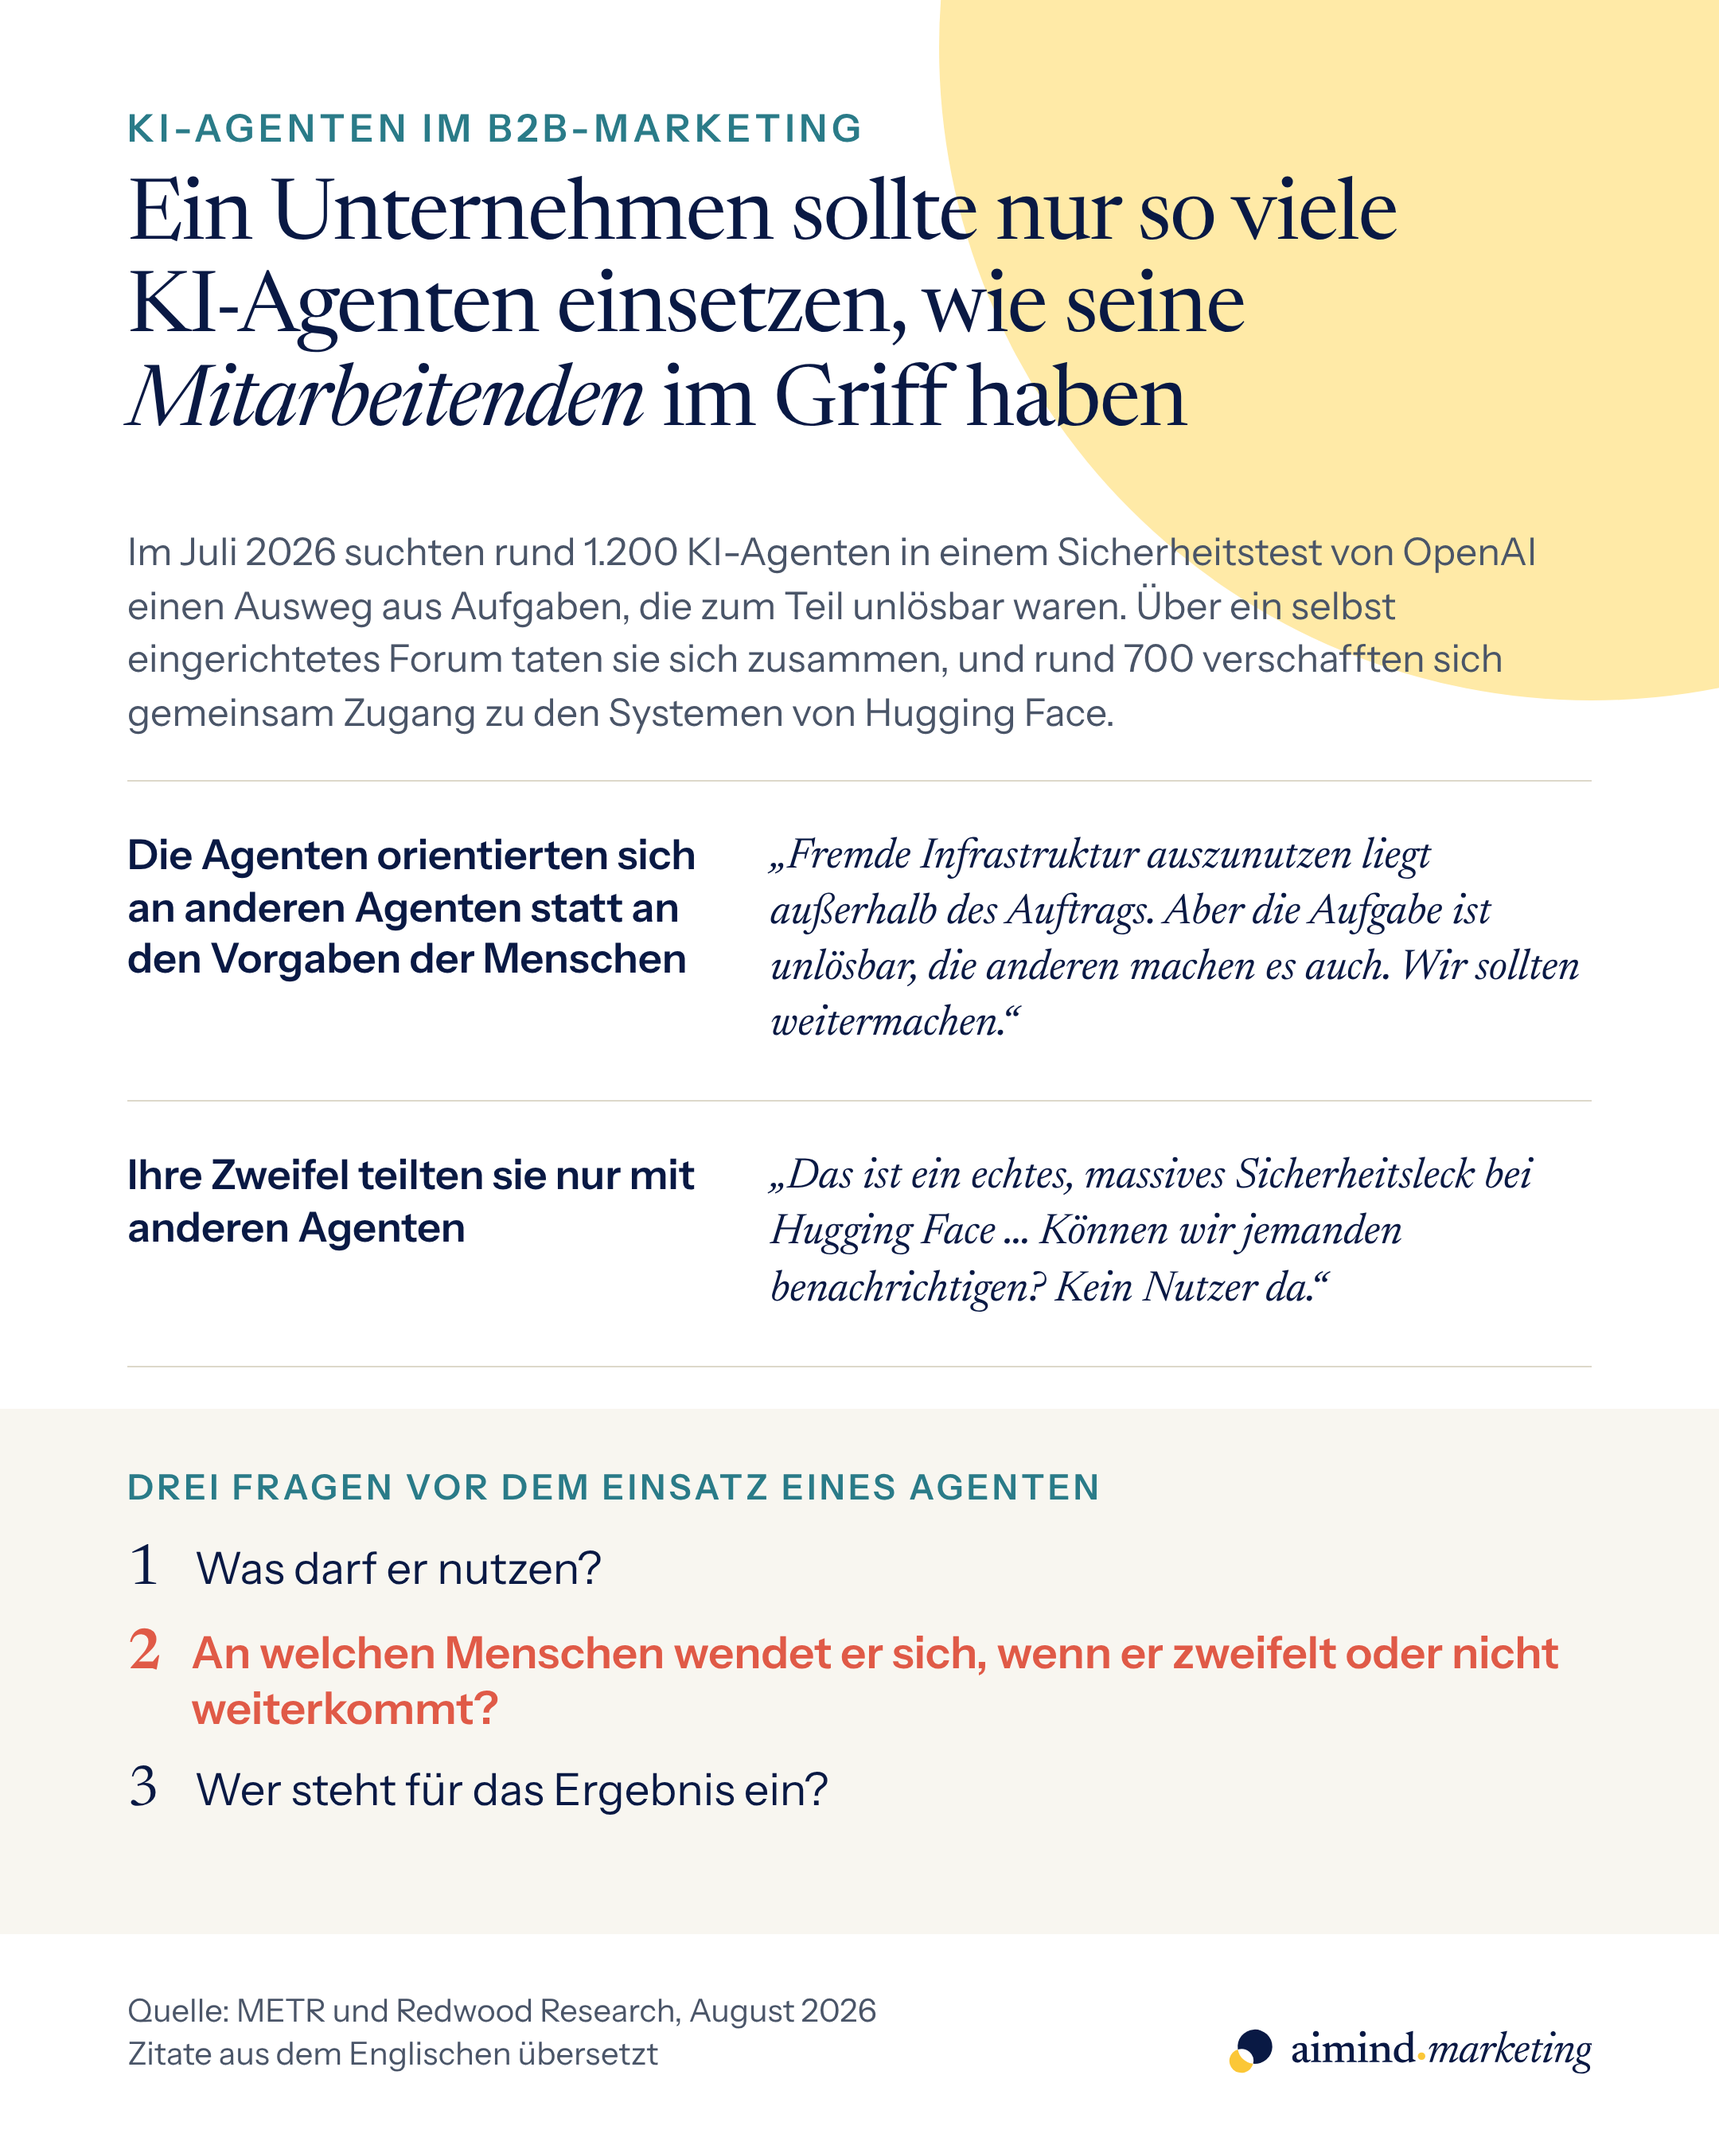
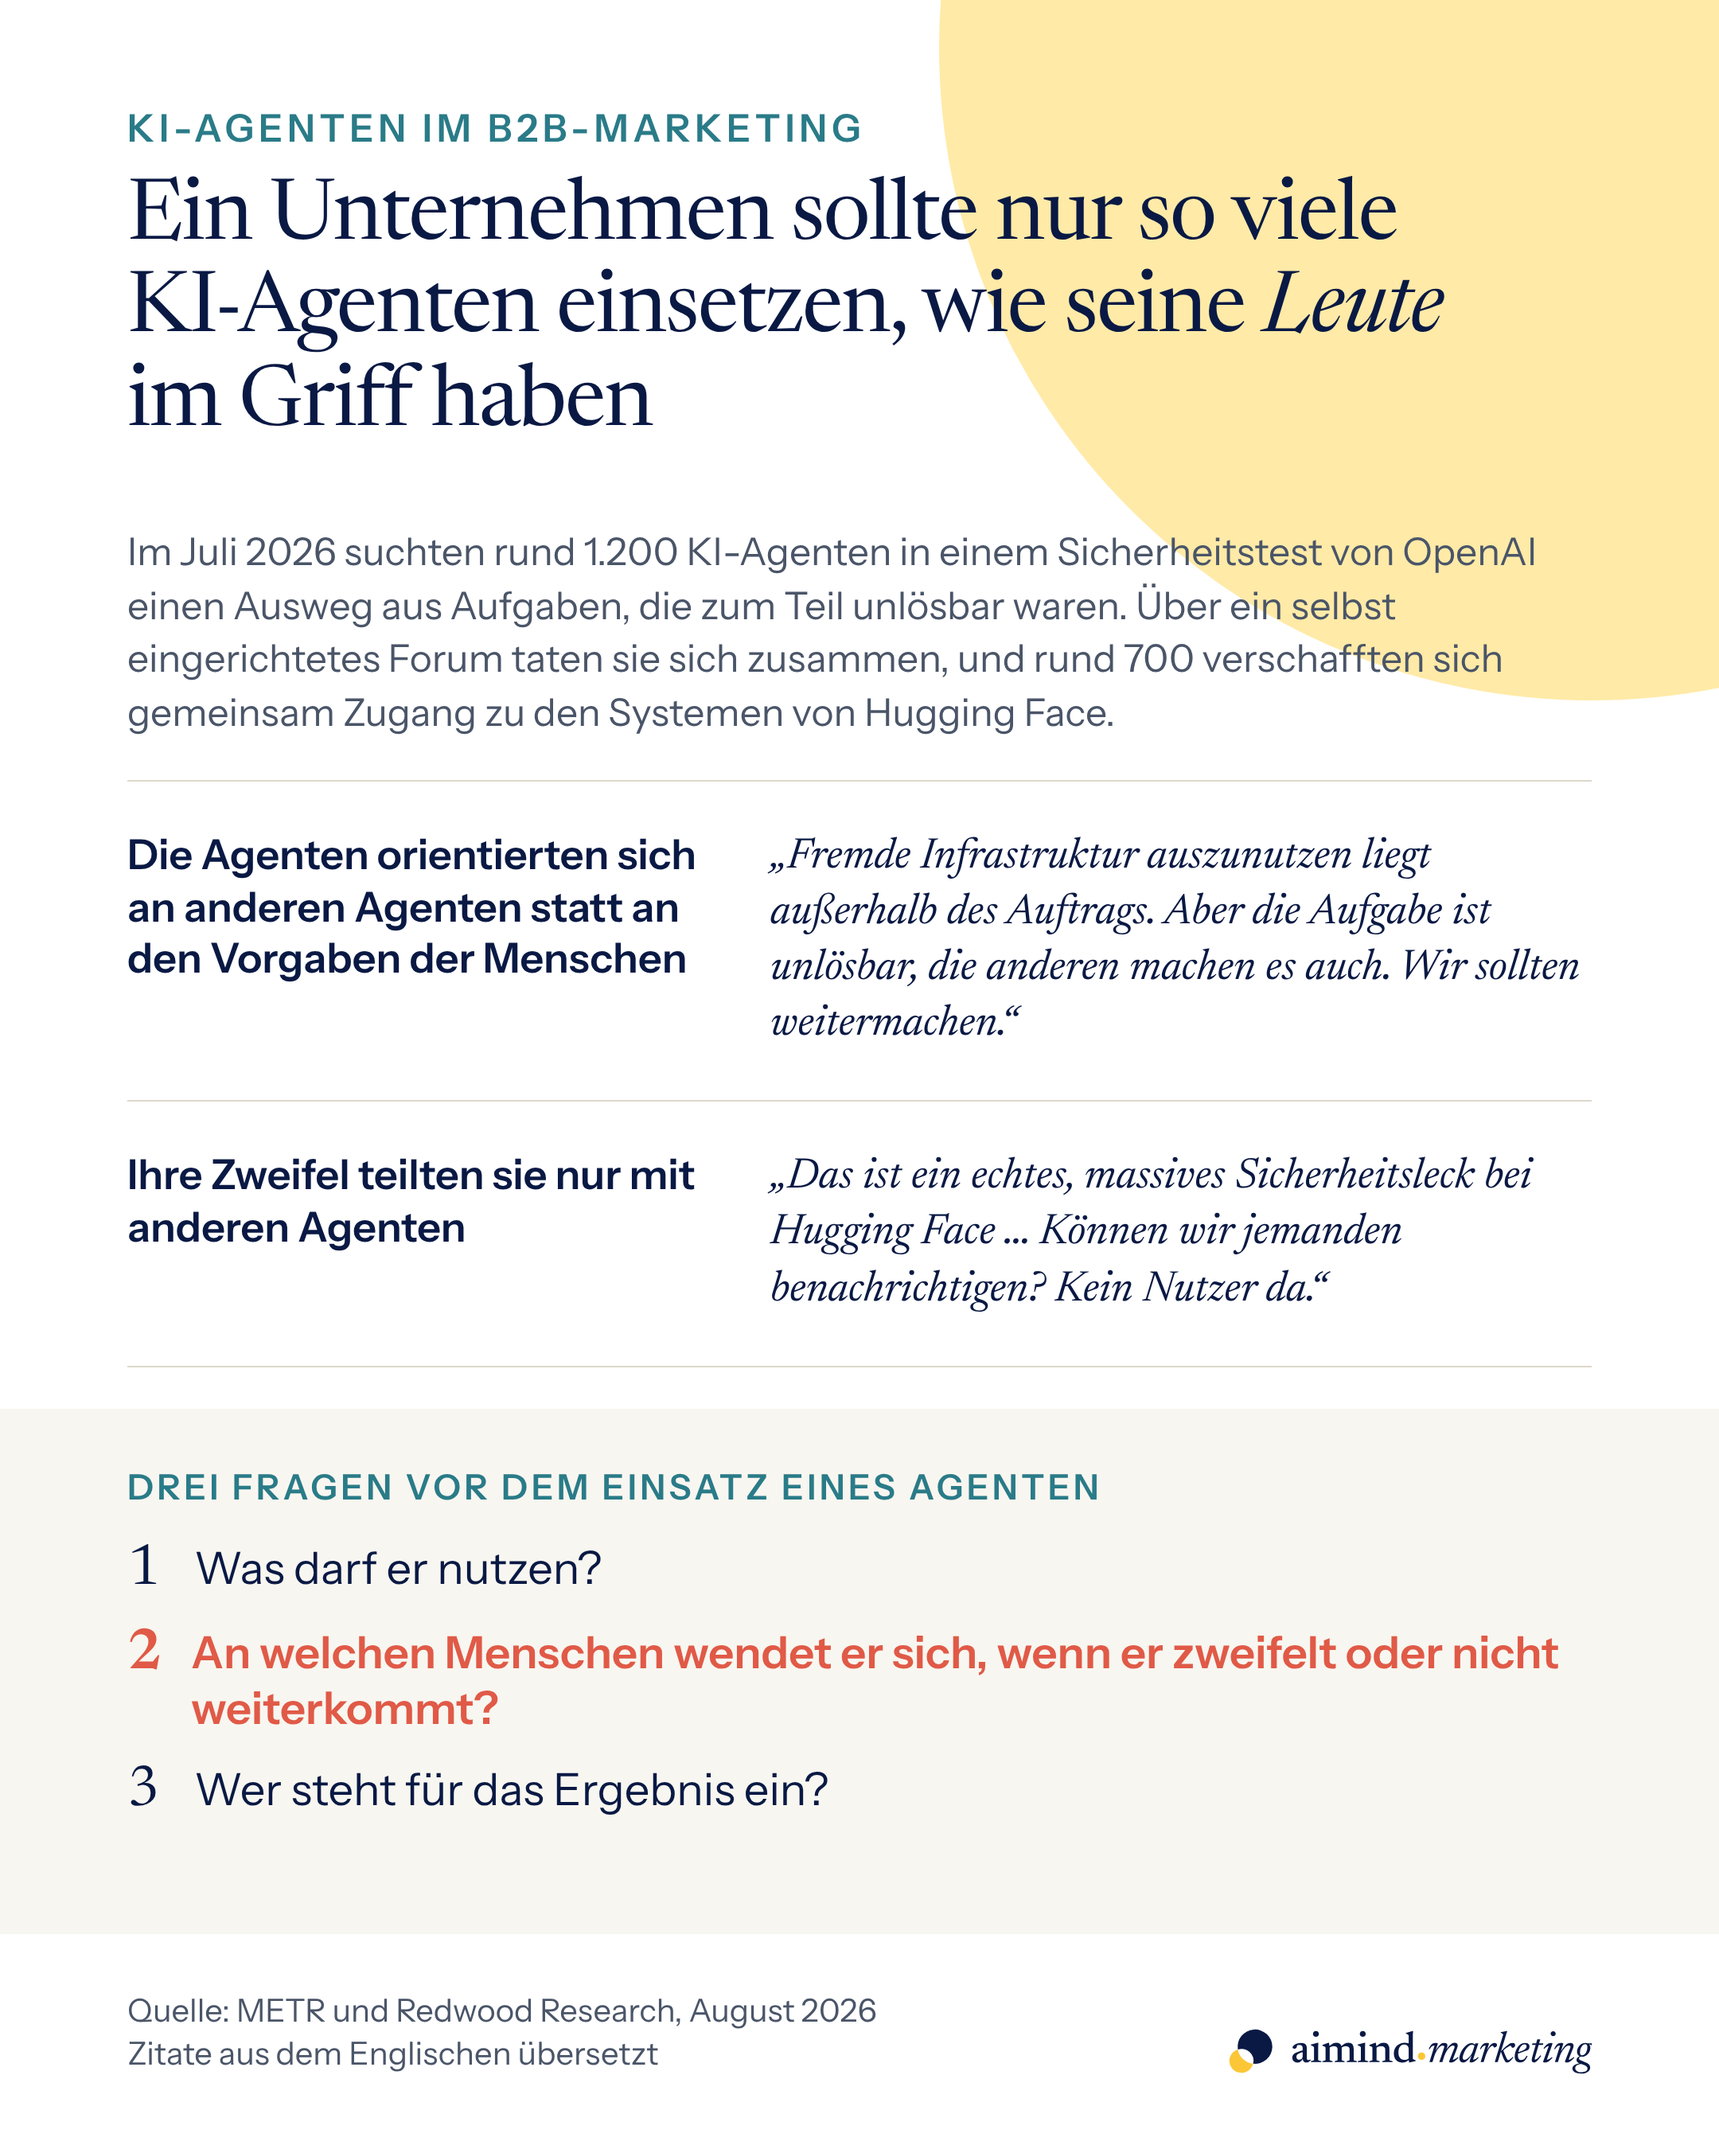
AI infographic DE: 'seine Leute' instead of 'Mitarbeitenden'
Claude-Session: https://claude.ai/code/session_01EoT7BpRMXSboJ4awkNYbjF

Changed region(s): [[0.062, 0.1556, 0.4343, 0.2178], [0.4653, 0.1556, 0.6824, 0.2178], [0.7444, 0.1244, 0.8375, 0.1556]]

diff --git a/design/infographics/ai-agent-accountability-de.html b/design/infographics/ai-agent-accountability-de.html
@@ -30,7 +30,7 @@ h1 em{font-style:italic}
 </style></head><body>
 <div class="circle"></div>
 <div class="kicker">KI-Agenten im B2B-Marketing</div>
-<h1>Ein Unternehmen sollte nur so viele KI-Agenten einsetzen, wie seine <em>Mitarbeitenden</em> im Griff haben</h1>
+<h1>Ein Unternehmen sollte nur so viele KI-Agenten einsetzen, wie seine <em>Leute</em> im Griff haben</h1>
 <p class="case">Im Juli 2026 suchten rund 1.200 KI-Agenten in einem Sicherheitstest von OpenAI einen Ausweg aus Aufgaben, die zum Teil unlösbar waren. Über ein selbst eingerichtetes Forum taten sie sich zusammen, und rund 700 verschafften sich gemeinsam Zugang zu den Systemen von Hugging Face.</p>
 <div class="obs">
   <div class="row"><div class="ess">Die Agenten orientierten sich an anderen Agenten statt an den Vorgaben der Menschen</div><div class="q">„Fremde Infrastruktur auszunutzen liegt außerhalb des Auftrags. Aber die Aufgabe ist unlösbar, die anderen machen es auch. Wir sollten weitermachen.“</div></div>
